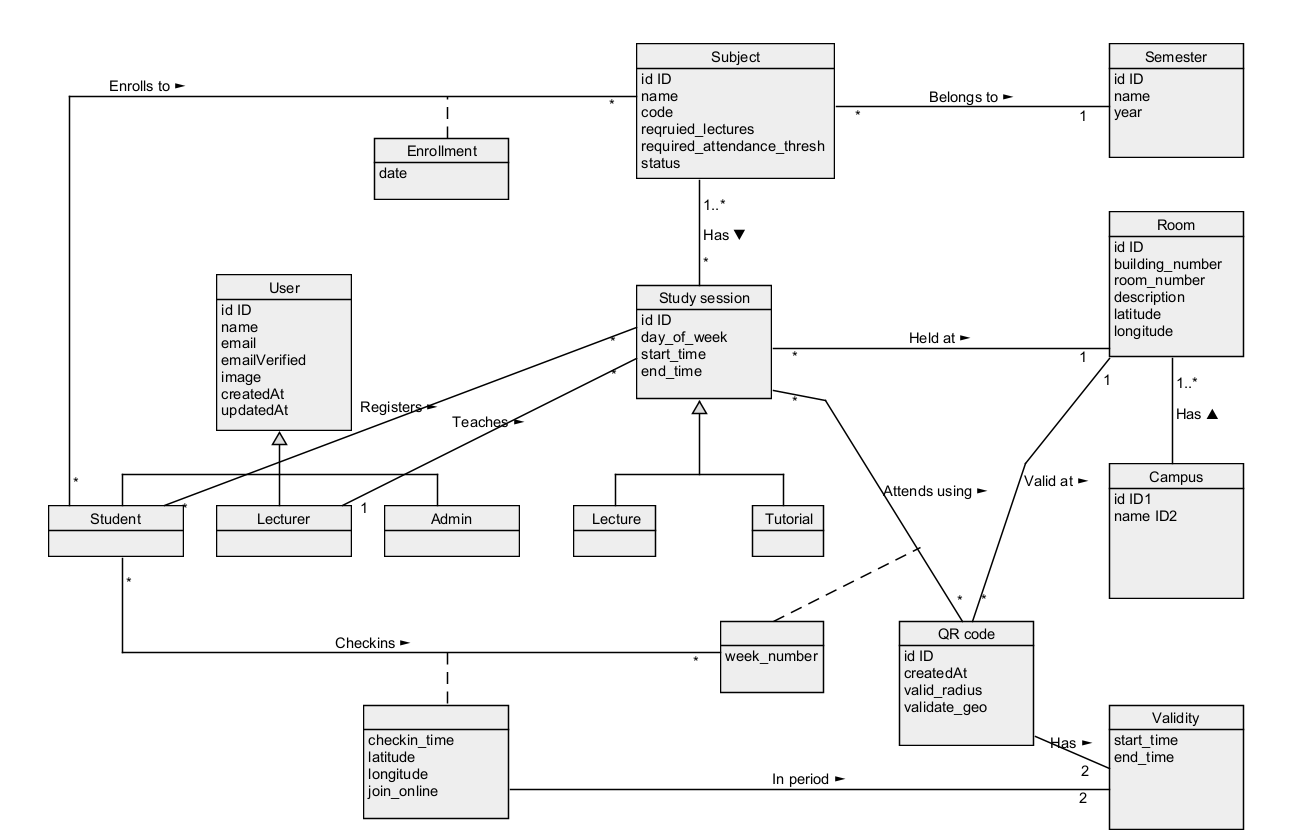
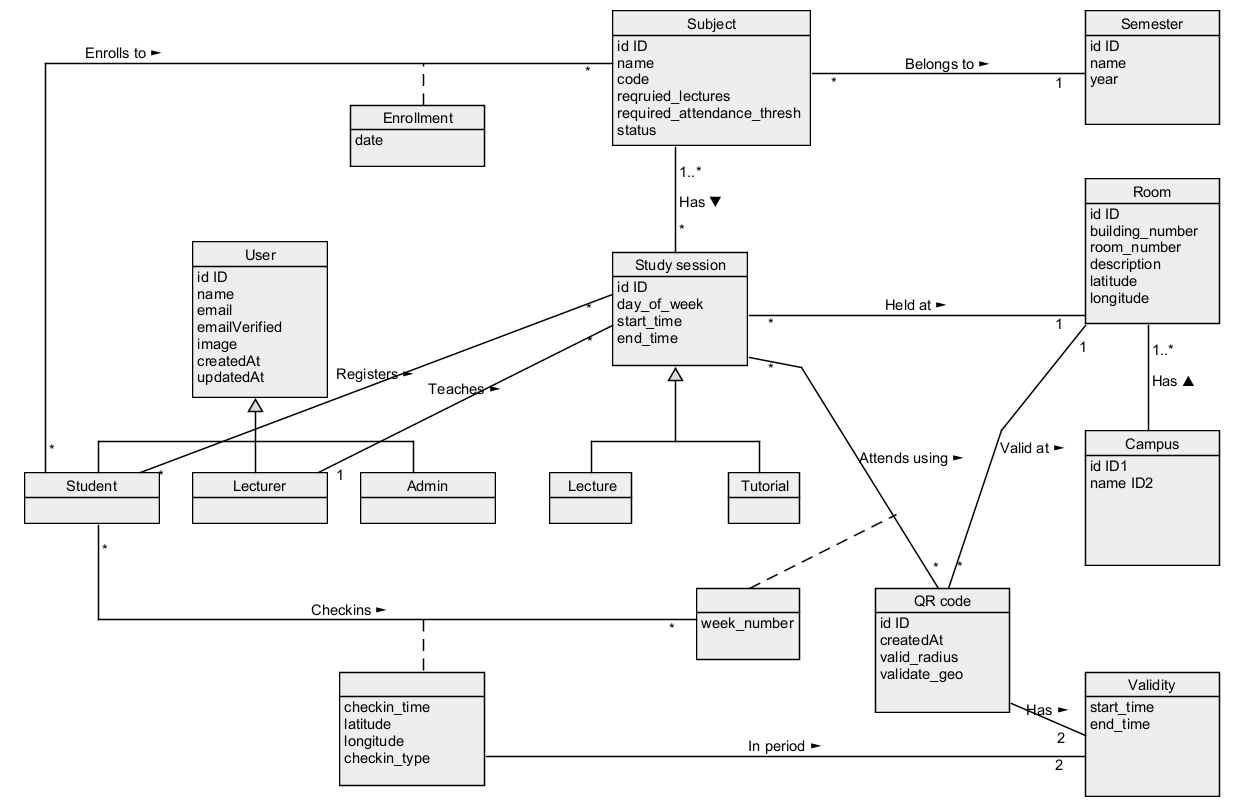
api: change body payload join_online to checkin_type for checkin api

diff --git a/src/app/api/student/attendance/checkin/route.ts b/src/app/api/student/attendance/checkin/route.ts
@@ -34,10 +34,12 @@ import { z } from "zod";
  *               long:
  *                 type: number
  *                 description: Student's longitude when checking in
- *               join_online:
- *                 type: boolean
- *                 description: Whether the student is joining online
- *                 example: false
+ *               checkin_type:
+ *                 type: string
+ *                 description: The type of check-in method used by the student.
+ *                 enum: [In-person, Online, Manual]
+ *                 default: In-person
+ *                 example: In-person
  *
  *     responses:
  *       200:
@@ -86,17 +88,19 @@ export async function POST(req: NextRequest) {
     qr_code_id: z.number(),
     lat: z.number(),
     long: z.number(),
-    join_online: z.boolean().optional(),
+    checkin_type: z
+      .enum(["In-person", "Online", "Manual"])
+      .default("In-person"),
   });
   const parsed = schema.safeParse(body);
   if (!parsed.success) {
     return NextResponse.json(
-      { message: "Invalid body payload" },
+      { message: "Invalid body payload", error: parsed.error.format() },
       { status: 400 }
     );
   }
 
-  const { qr_code_id, lat, long, join_online } = parsed.data;
+  const { qr_code_id, lat, long, checkin_type } = parsed.data;
 
   // Step 1: From qr_code_id, figure out study session, week, subject, and whether the student is allowed ---
   const [qrRow] = await rawQuery<QrSessionRow>(
@@ -270,7 +274,7 @@ export async function POST(req: NextRequest) {
   await rawQuery(
     `
     INSERT INTO checkin
-      (student_id, qr_code_study_session_id, validity_id, checkin_time, latitude, longitude, join_online)
+      (student_id, qr_code_study_session_id, validity_id, checkin_time, latitude, longitude, checkin_type)
     VALUES (?, ?, ?, ?, ?, ?, ?)
     `,
     [
@@ -280,7 +284,7 @@ export async function POST(req: NextRequest) {
       now,
       lat,
       long,
-      join_online ?? false
+      checkin_type,
     ]
   );
 
